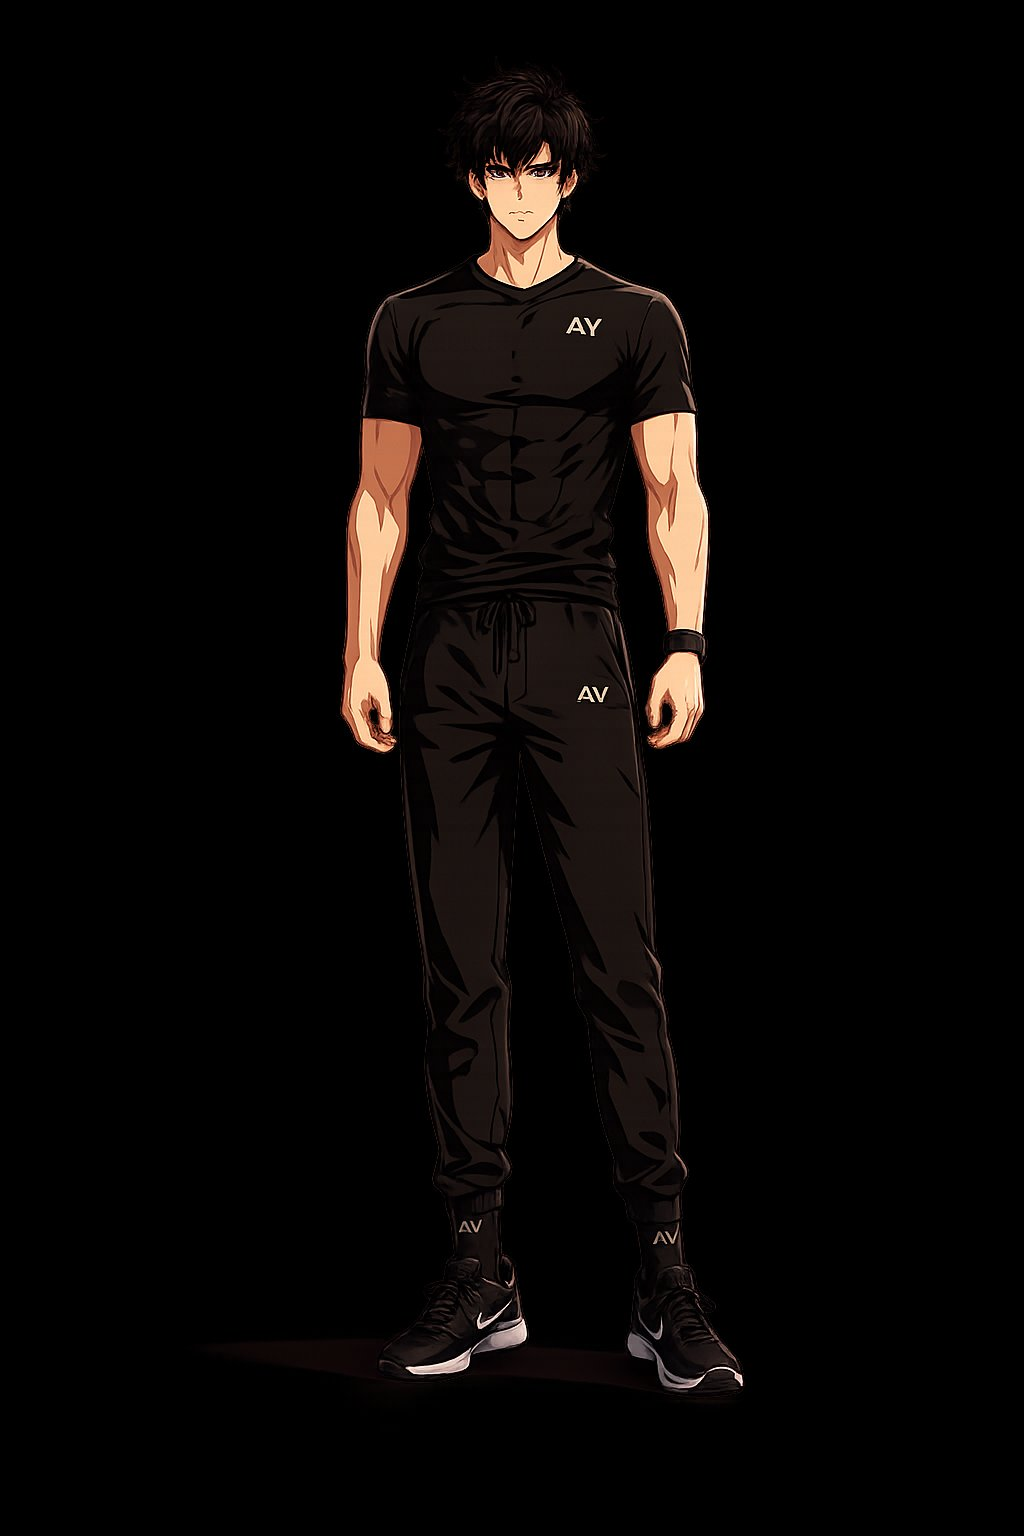
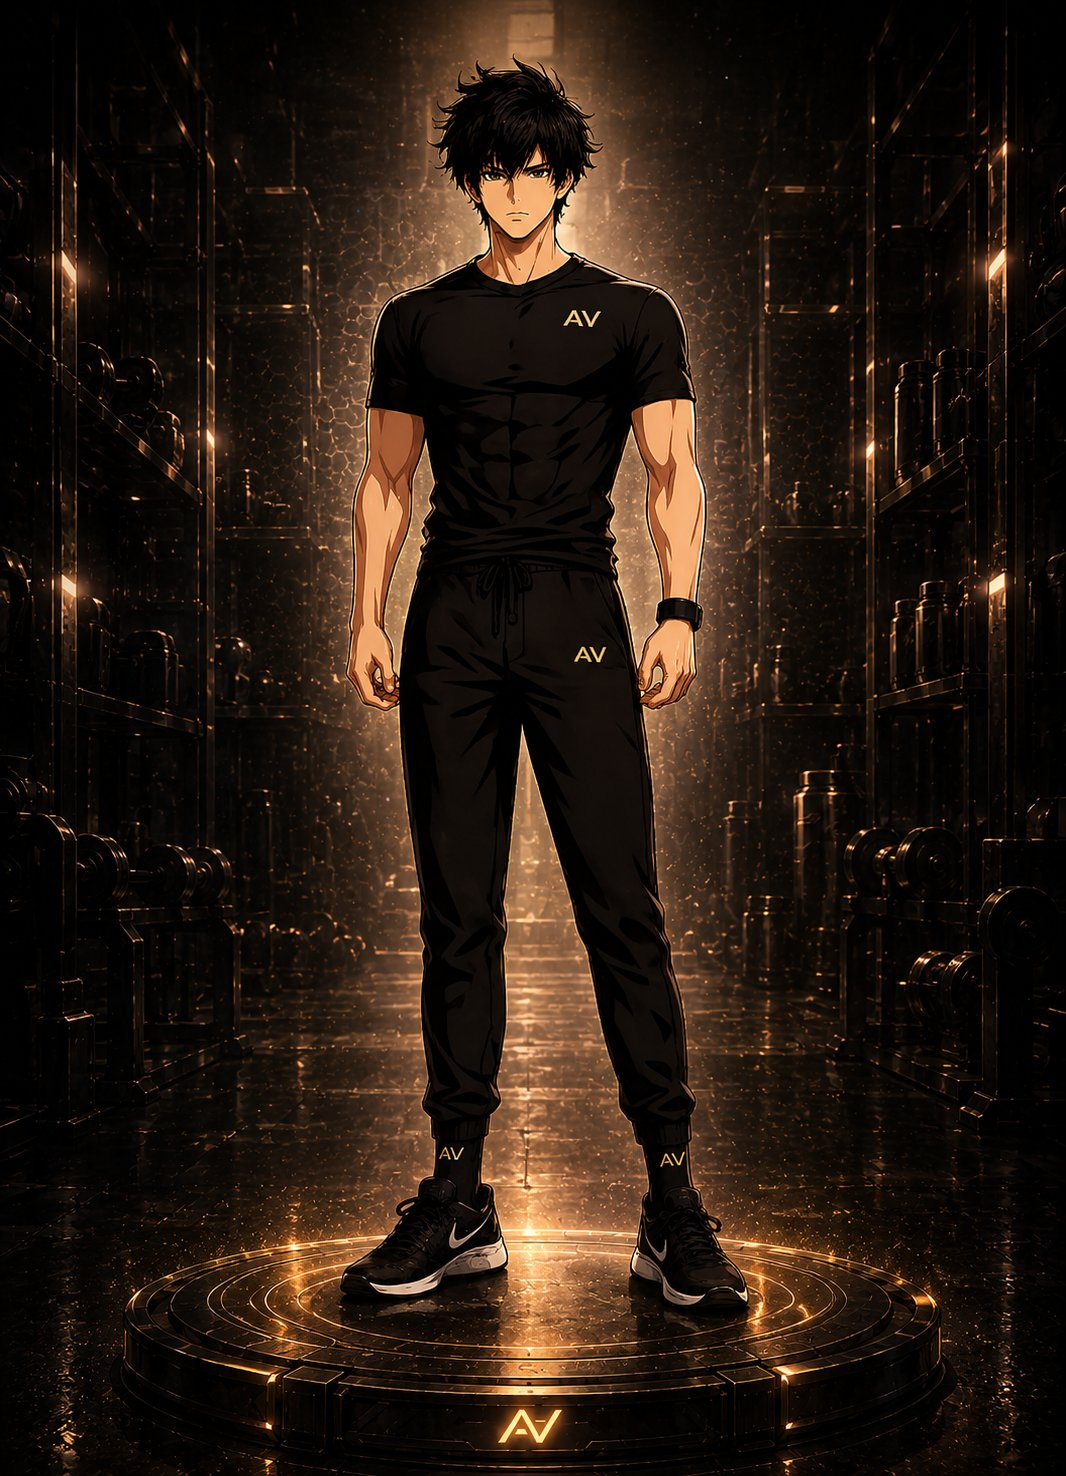
Add files via upload

diff --git a/js/adventure.js b/js/adventure.js
@@ -961,7 +961,7 @@ function showRPGEquipmentModal(defaultTab) {
         </div>`;
     }
 
-    // ─── Génère le panneau personnage central (REFONTE : avatar GIGANT + slots positionnés absolument) ───
+    // ─── Génère le panneau personnage central (REFONTE V2 : avatar FULL WIDTH + slots overlay) ───
     function renderCharacterPanel() {
         const gender = localStorage.getItem('fitproAvatarGender') || 'homme';
         const path = gender === 'femme' ? 'images/avatars/avatar_femme.png' : 'images/avatars/avatar_homme.png';
@@ -972,78 +972,82 @@ function showRPGEquipmentModal(defaultTab) {
             const eqItems = getEquippedItems();
             const item = eqItems[slot.id];
             const r = item ? getRarityInfo(item.rarity) : null;
-            const bg = item ? r.bg : 'rgba(10,14,24,0.85)';
-            const border = item ? r.color : 'rgba(34,197,94,0.45)';
-            const glow = item ? `box-shadow:0 0 14px ${r.glow},inset 0 0 8px ${r.glow};` : 'box-shadow:0 0 10px rgba(34,197,94,0.15);';
+            const bg = item ? r.bg : 'rgba(10,14,24,0.7)';
+            const border = item ? r.color : 'rgba(34,197,94,0.5)';
+            const glow = item ? `box-shadow:0 0 14px ${r.glow},inset 0 0 8px ${r.glow};` : 'box-shadow:0 0 12px rgba(34,197,94,0.25),0 2px 8px rgba(0,0,0,0.5);';
 
-            return `<div style="position:absolute;${position};z-index:3;display:flex;flex-direction:column;align-items:center;gap:2px;">
+            return `<div style="position:absolute;${position};z-index:5;display:flex;flex-direction:column;align-items:center;gap:3px;">
                 <div onclick="window._rpgEqSelectSlot('${slot.id}')" style="
-                    width:52px;height:52px;border-radius:10px;cursor:pointer;
+                    width:54px;height:54px;border-radius:10px;cursor:pointer;
                     background:${bg};border:2px solid ${border};${glow}
                     display:flex;align-items:center;justify-content:center;
-                    position:relative;transition:transform 0.15s;backdrop-filter:blur(6px);">
+                    position:relative;transition:transform 0.15s;backdrop-filter:blur(8px);-webkit-backdrop-filter:blur(8px);">
                     ${item
-                        ? `<span style="font-size:1.5em;line-height:1;">${item.icon}</span>
+                        ? `<span style="font-size:1.55em;line-height:1;filter:drop-shadow(0 0 4px rgba(0,0,0,0.8));">${item.icon}</span>
                            <span style="position:absolute;top:1px;right:2px;font-size:0.42em;font-weight:900;color:${r.color};">${r.label}</span>`
-                        : `<span style="font-size:1.2em;opacity:0.4;">${slot.icon}</span>`
+                        : `<span style="font-size:1.3em;opacity:0.55;filter:drop-shadow(0 0 4px rgba(0,0,0,0.8));">${slot.icon}</span>`
                     }
                 </div>
-                <div style="font-size:0.5em;color:rgba(255,255,255,0.65);font-weight:800;letter-spacing:1px;text-shadow:0 1px 3px rgba(0,0,0,0.9);background:rgba(0,0,0,0.5);padding:1px 5px;border-radius:4px;">${slot.label}</div>
+                <div style="font-size:0.5em;color:rgba(255,255,255,0.85);font-weight:900;letter-spacing:1.5px;text-shadow:0 1px 3px rgba(0,0,0,0.95),0 0 6px rgba(0,0,0,0.8);background:rgba(0,0,0,0.7);padding:2px 6px;border-radius:4px;border:1px solid rgba(74,222,128,0.3);">${slot.label}</div>
             </div>`;
         }
 
         return `
-        <div style="position:relative;width:100%;height:420px;display:flex;align-items:center;justify-content:center;overflow:hidden;border-radius:12px;background:radial-gradient(ellipse at center,rgba(34,197,94,0.08),transparent 70%);">
+        <div style="position:relative;width:100%;aspect-ratio:1066/1476;max-height:700px;display:flex;align-items:center;justify-content:center;overflow:hidden;border-radius:12px;background:#000;">
 
-            <!-- Glow halo derrière l'avatar -->
-            <div style="position:absolute;top:50%;left:50%;transform:translate(-50%,-50%);
-                width:280px;height:380px;
-                background:radial-gradient(ellipse at 50% 40%,rgba(34,197,94,0.25),rgba(168,85,247,0.08) 50%,transparent 75%);
-                pointer-events:none;z-index:0;"></div>
-
-            <!-- AVATAR GIGANT au centre -->
+            <!-- AVATAR FULL SIZE (prend toute la largeur) -->
             <img src="${path}"
                  alt="Avatar ${gender}"
-                 style="position:relative;height:100%;max-height:420px;width:auto;object-fit:contain;
-                        filter:drop-shadow(0 0 24px rgba(34,197,94,0.5)) drop-shadow(0 0 50px rgba(34,197,94,0.2));z-index:1;"
+                 style="position:absolute;inset:0;width:100%;height:100%;object-fit:cover;object-position:center;z-index:1;
+                        filter:drop-shadow(0 0 24px rgba(34,197,94,0.3));"
                  onerror="this.style.display='none';this.nextElementSibling.style.display='flex';" />
 
-            <!-- Fallback -->
+            <!-- Fallback si image absente -->
             <div style="display:none;position:absolute;inset:0;align-items:center;justify-content:center;color:rgba(74,222,128,0.6);font-size:0.8em;text-align:center;">Avatar indisponible</div>
 
-            <!-- Piédestal en bas -->
-            <div style="position:absolute;bottom:10px;left:50%;transform:translateX(-50%);width:200px;height:20px;
-                border-radius:50%;background:radial-gradient(ellipse,rgba(34,197,94,0.4),transparent 70%);
-                border:1px solid rgba(34,197,94,0.5);pointer-events:none;z-index:2;
-                box-shadow:0 0 16px rgba(34,197,94,0.4);"></div>
+            <!-- Overlay subtil pour mieux voir les slots -->
+            <div style="position:absolute;inset:0;background:linear-gradient(90deg,rgba(0,0,0,0.45) 0%,transparent 18%,transparent 82%,rgba(0,0,0,0.45) 100%);pointer-events:none;z-index:2;"></div>
 
-            <!-- ═══ SLOTS ÉQUIPEMENT FLOTTANTS ═══ -->
+            <!-- Glow scan-lines -->
+            <div style="position:absolute;inset:0;background:repeating-linear-gradient(180deg,transparent 0,transparent 4px,rgba(74,222,128,0.02) 4px,rgba(74,222,128,0.02) 5px);pointer-events:none;z-index:3;"></div>
+
+            <!-- ═══ SLOTS ÉQUIPEMENT FLOTTANTS (par-dessus l'avatar) ═══ -->
 
             <!-- COLONNE GAUCHE -->
-            ${renderFloatingSlot({id:'head',label:'TÊTE',icon:'⛑️'}, 'top:8px;left:8px')}
-            ${renderFloatingSlot({id:'weapon',label:'ARME',icon:'⚔️'}, 'top:90px;left:8px')}
-            ${renderFloatingSlot({id:'hands',label:'MAINS',icon:'🥊'}, 'top:172px;left:8px')}
-            ${renderFloatingSlot({id:'legs',label:'JAMBES',icon:'🦵'}, 'top:254px;left:8px')}
-            ${renderFloatingSlot({id:'accessory',label:'ANNEAU',icon:'💍'}, 'top:336px;left:8px')}
+            ${renderFloatingSlot({id:'head',label:'TÊTE',icon:'⛑️'}, 'top:14px;left:10px')}
+            ${renderFloatingSlot({id:'weapon',label:'ARME',icon:'⚔️'}, 'top:110px;left:10px')}
+            ${renderFloatingSlot({id:'hands',label:'MAINS',icon:'🥊'}, 'top:206px;left:10px')}
+            ${renderFloatingSlot({id:'legs',label:'JAMBES',icon:'🦵'}, 'top:302px;left:10px')}
+            ${renderFloatingSlot({id:'accessory',label:'ANNEAU',icon:'💍'}, 'top:398px;left:10px')}
 
             <!-- COLONNE DROITE -->
-            ${renderFloatingSlot({id:'chest',label:'TORSE',icon:'🛡️'}, 'top:8px;right:8px')}
-            ${renderFloatingSlot({id:'feet',label:'PIEDS',icon:'👟'}, 'top:90px;right:8px')}
+            ${renderFloatingSlot({id:'chest',label:'TORSE',icon:'🛡️'}, 'top:14px;right:10px')}
+            ${renderFloatingSlot({id:'feet',label:'PIEDS',icon:'👟'}, 'top:110px;right:10px')}
 
-            <!-- Bouton toggle Homme/Femme (en haut à droite, sous slot chest) -->
+            <!-- Bouton toggle Homme/Femme (sous le slot PIEDS) -->
             <button onclick="window.toggleAvatarGender && window.toggleAvatarGender()"
                     title="Changer d'avatar"
-                    style="position:absolute;top:172px;right:8px;z-index:4;
-                           background:linear-gradient(135deg,rgba(34,197,94,0.25),rgba(168,85,247,0.15));
-                           border:1.5px solid rgba(74,222,128,0.6);
-                           color:#4ade80;width:52px;height:52px;border-radius:10px;
-                           cursor:pointer;font-size:1.4em;
+                    style="position:absolute;top:206px;right:10px;z-index:5;
+                           background:linear-gradient(135deg,rgba(34,197,94,0.3),rgba(168,85,247,0.25));
+                           border:2px solid rgba(74,222,128,0.6);
+                           color:#4ade80;width:54px;height:54px;border-radius:10px;
+                           cursor:pointer;font-size:1.5em;
                            display:flex;align-items:center;justify-content:center;
-                           box-shadow:0 0 14px rgba(34,197,94,0.4);
-                           backdrop-filter:blur(6px);">
+                           box-shadow:0 0 14px rgba(34,197,94,0.4),0 2px 8px rgba(0,0,0,0.5);
+                           backdrop-filter:blur(8px);-webkit-backdrop-filter:blur(8px);">
                 ${toggleIcon}
             </button>
-            <div style="position:absolute;top:230px;right:8px;z-index:4;font-size:0.48em;color:rgba(255,255,255,0.65);font-weight:800;letter-spacing:1px;background:rgba(0,0,0,0.5);padding:1px 5px;border-radius:4px;text-shadow:0 1px 3px rgba(0,0,0,0.9);width:52px;text-align:center;">SEXE</div>
+            <div style="position:absolute;top:264px;right:10px;z-index:5;font-size:0.5em;color:rgba(255,255,255,0.85);font-weight:900;letter-spacing:1.5px;background:rgba(0,0,0,0.7);padding:2px 6px;border-radius:4px;border:1px solid rgba(74,222,128,0.3);width:54px;text-align:center;box-sizing:border-box;text-shadow:0 1px 3px rgba(0,0,0,0.95);">SEXE</div>
+
+            <!-- Coins HUD décoratifs -->
+            <div style="position:absolute;top:0;left:0;width:24px;height:24px;border-top:2px solid #4ade80;border-left:2px solid #4ade80;border-top-left-radius:12px;box-shadow:0 0 10px rgba(74,222,128,0.5);pointer-events:none;z-index:4;"></div>
+            <div style="position:absolute;top:0;right:0;width:24px;height:24px;border-top:2px solid #4ade80;border-right:2px solid #4ade80;border-top-right-radius:12px;box-shadow:0 0 10px rgba(74,222,128,0.5);pointer-events:none;z-index:4;"></div>
+            <div style="position:absolute;bottom:0;left:0;width:24px;height:24px;border-bottom:2px solid #4ade80;border-left:2px solid #4ade80;border-bottom-left-radius:12px;box-shadow:0 0 10px rgba(74,222,128,0.5);pointer-events:none;z-index:4;"></div>
+            <div style="position:absolute;bottom:0;right:0;width:24px;height:24px;border-bottom:2px solid #4ade80;border-right:2px solid #4ade80;border-bottom-right-radius:12px;box-shadow:0 0 10px rgba(74,222,128,0.5);pointer-events:none;z-index:4;"></div>
+
+            <!-- Glow line top/bottom -->
+            <div style="position:absolute;top:0;left:0;right:0;height:1px;background:linear-gradient(90deg,transparent,#4ade80,transparent);z-index:4;pointer-events:none;"></div>
+            <div style="position:absolute;bottom:0;left:0;right:0;height:1px;background:linear-gradient(90deg,transparent,#4ade80,transparent);z-index:4;pointer-events:none;"></div>
         </div>`;
     }
 
@@ -1191,10 +1195,10 @@ function showRPGEquipmentModal(defaultTab) {
         <div style="flex:1;overflow-y:auto;-webkit-overflow-scrolling:touch;padding:14px;">
 
             <!-- ━━━ PERSONNAGE ━━━ -->
-            <div style="background:linear-gradient(160deg,rgba(34,197,94,0.04),transparent);
-                       border:1px solid rgba(34,197,94,0.18);border-radius:14px;position:relative;
-                       padding:8px 8px 12px;margin-bottom:14px;">
-                <div style="position:absolute;top:4px;left:8px;font-size:0.5em;color:#22c55e;font-weight:800;letter-spacing:2px;">◈ PERSONNAGE</div>
+            <div style="background:#000;
+                       border:1px solid rgba(34,197,94,0.3);border-radius:14px;position:relative;
+                       padding:0;margin-bottom:14px;overflow:hidden;">
+                <div style="position:absolute;top:8px;left:50%;transform:translateX(-50%);font-size:0.5em;color:#4ade80;font-weight:900;letter-spacing:3px;z-index:10;text-shadow:0 0 8px rgba(74,222,128,0.6),0 1px 4px rgba(0,0,0,0.9);background:rgba(0,0,0,0.6);padding:3px 10px;border-radius:4px;border:1px solid rgba(74,222,128,0.3);">◈ PERSONNAGE ◈</div>
                 ${renderCharacterPanel()}
             </div>
 

diff --git a/index.html b/index.html
@@ -19,7 +19,7 @@
     <link href="https://cdn.jsdelivr.net/npm/@tabler/icons-webfont@3.19.0/tabler-icons.min.css" rel="stylesheet">
 
     <!-- App styles -->
-    <link rel="stylesheet" href="css/style.css?v=54">
+    <link rel="stylesheet" href="css/style.css?v=56">
 </head>
 <body>
 
@@ -165,20 +165,20 @@
         <!-- ═══════════ BANNIÈRE AWAKENED ═══════════ -->
         <div id="appHeader" style="
                 border-radius: 14px;
-                margin-bottom: 12px;
+                margin: 0 auto 12px;
                 padding: 0;
                 position: relative;
                 overflow: hidden;
                 background: #000;
                 border: 1px solid rgba(74,222,128,0.2);
                 box-shadow: 0 6px 24px rgba(0,0,0,0.5), 0 0 24px rgba(74,222,128,0.06);
-                height: 110px;
-                max-height: 130px;">
+                width: 100%;
+                max-width: 460px;">
 
-            <!-- Bannière image -->
-            <img src="images/banner.png?v=54"
+            <!-- Bannière image : ratio préservé -->
+            <img src="images/banner.png?v=56"
                  alt="Awakened Elite Fitness"
-                 style="width:100%;height:100%;display:block;object-fit:cover;object-position:center 35%;" />
+                 style="width:100%;height:auto;display:block;" />
 
             <!-- Top glow accent line (subtile) -->
             <div style="position:absolute;top:0;left:0;right:0;height:2px;background:linear-gradient(90deg,transparent,#4ade80,#a855f7,transparent);opacity:0.5;pointer-events:none;"></div>
@@ -2101,7 +2101,7 @@
             <!-- 🔖 Version -->
             <div class="card" style="background:linear-gradient(160deg,#0a0e18,#0F1014);border:1px solid rgba(34,197,94,0.15);padding:12px 14px;text-align:center;">
                 <div style="font-size:0.6em;color:#64748b;font-weight:800;letter-spacing:2px;">VERSION</div>
-                <div style="font-size:0.95em;color:#4ade80;font-weight:900;margin-top:3px;letter-spacing:1px;">v54 · awakened</div>
+                <div style="font-size:0.95em;color:#4ade80;font-weight:900;margin-top:3px;letter-spacing:1px;">v56 · awakened</div>
                 <button onclick="if(confirm('Forcer la mise à jour de l\\'app ?\\n\\nCela rechargera la page et nettoiera le cache.')) { if('serviceWorker' in navigator) navigator.serviceWorker.getRegistrations().then(rs => Promise.all(rs.map(r => r.unregister()))).then(() => location.reload(true)); }" style="margin-top:10px;background:rgba(34,197,94,0.1);border:1px solid rgba(34,197,94,0.3);color:#4ade80;border-radius:9px;padding:8px 14px;font-size:0.75em;font-weight:800;cursor:pointer;">🔄 Forcer la mise à jour</button>
             </div>
 
@@ -3428,12 +3428,12 @@
     <script src="https://cdn.jsdelivr.net/npm/chart.js@4.4.0/dist/chart.umd.min.js"></script>
 
     <!-- App scripts — order matters -->
-    <script src="js/exercises.js?v=54"></script>
-    <script src="data/items.js?v=54"></script>
-    <script src="js/adventure.js?v=54"></script>
-    <script src="js/challenges.js?v=54"></script>
-    <script src="js/exercise-visuals.js?v=54"></script>
-    <script src="js/app.js?v=54"></script>
+    <script src="js/exercises.js?v=56"></script>
+    <script src="data/items.js?v=56"></script>
+    <script src="js/adventure.js?v=56"></script>
+    <script src="js/challenges.js?v=56"></script>
+    <script src="js/exercise-visuals.js?v=56"></script>
+    <script src="js/app.js?v=56"></script>
 
     <!-- Adventure + Challenge hook -->
     <script>

diff --git a/sw.js b/sw.js
@@ -2,7 +2,7 @@
 // Enables full offline support and PWA installation
 // Strategy: network-first for code files (HTML/JS/CSS), cache-first for assets (images/fonts)
 
-const CACHE_NAME = 'awakened-v54';
+const CACHE_NAME = 'awakened-v56';
 const ASSETS = [
   '/',
   '/index.html',